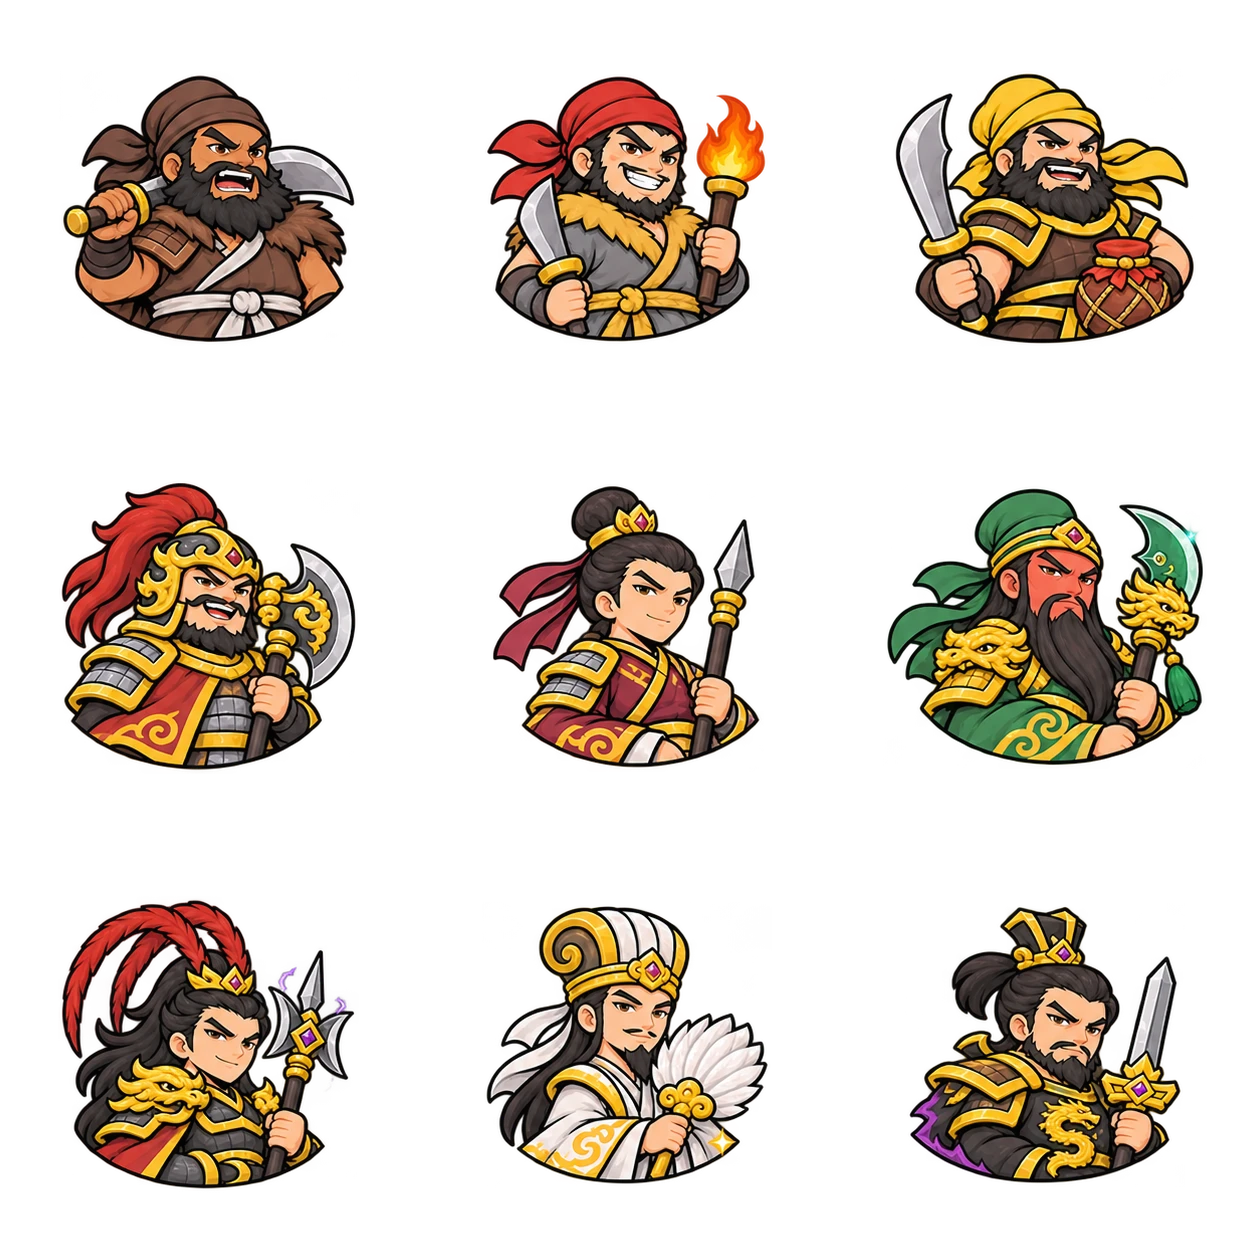
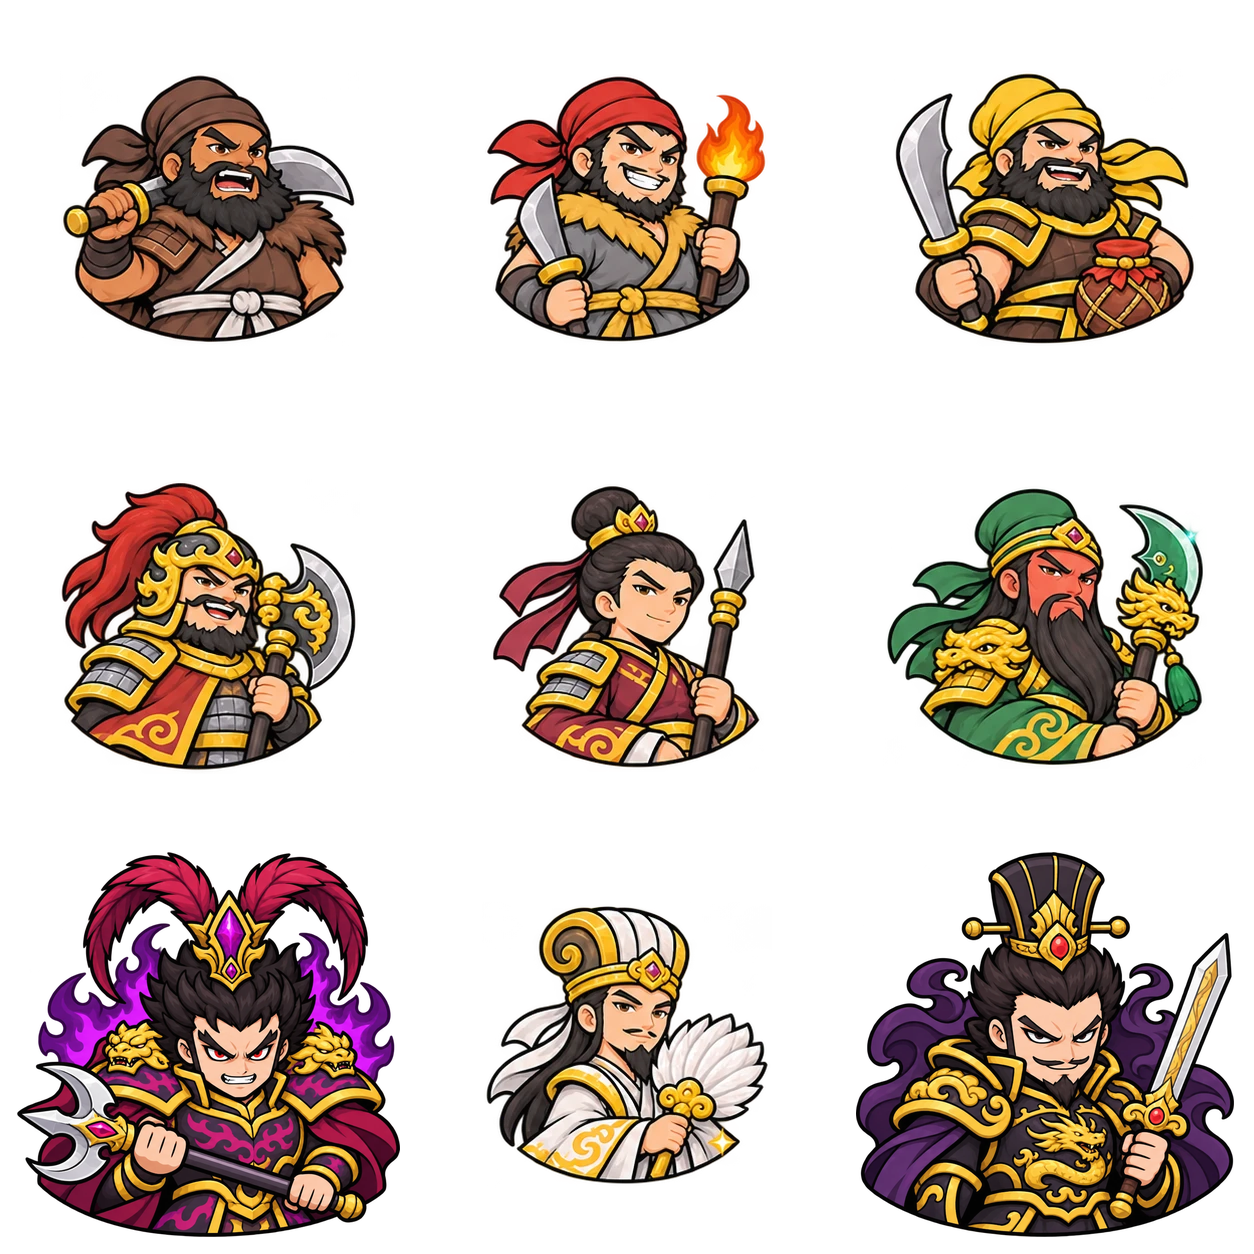
烽火守城：魔·吕布、魔·曹操的头像和立绘按「魔」的样子重画
原来用的是按「神·吕布」「神·曹操」画的金甲图，和他们当敌将时的紫焰造型不像。新图贴进 head_4、hero_4 的第 7、9 格。

Claude-Session: https://claude.ai/code/session_01L3jguFYprBTa7gYpFHSxvP

Changed region(s): [[0.0, 0.6842, 0.3421, 0.9952], [0.6842, 0.6531, 0.9952, 0.9952]]

diff --git a/sanguo-td/assets/manifest.js b/sanguo-td/assets/manifest.js
@@ -365,4 +365,4 @@ window.ASSET_LIST = [
   'weapons/zhuque.png',
   'weapons/zidian.png',
 ];
-window.ASSET_VER = 'f4fd1afbc9';
+window.ASSET_VER = 'a913c903bb';
